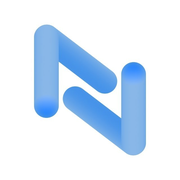
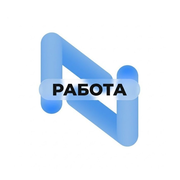
Приложение New.работа: новый логотип (значки 192/512/маскируемый, iPhone), название
Claude-Session: https://claude.ai/code/session_01TJtP8tz58uAKo28PQY2eJL

Changed region(s): [[0.1667, 0.1111, 0.8333, 0.8889], [0.5833, 0.5833, 0.6111, 0.6111], [0.3889, 0.3889, 0.4167, 0.4167]]

diff --git a/sw.js b/sw.js
@@ -1,6 +1,6 @@
 // New.работа как приложение: всегда свежее из сети; без сети — последняя сохранённая копия страницы (данные из базы не кешируются).
-const C = "nr-shell-1";
-const SHELL = ["karta.html", "style.css?v=13", "mascot.js", "common.js?v=3", "geo.js", "config.js?v=2", "vendor/supabase.js?v=1", "logo.png?v=2", "icon-512.png"];
+const C = "nr-shell-2";
+const SHELL = ["karta.html", "style.css?v=13", "mascot.js", "common.js?v=3", "geo.js", "config.js?v=2", "vendor/supabase.js?v=1", "logo.png?v=2", "app-icon-512.png"];
 self.addEventListener("install", e => { e.waitUntil(caches.open(C).then(c => c.addAll(SHELL)).catch(() => {})); self.skipWaiting(); });
 self.addEventListener("activate", e => { e.waitUntil(caches.keys().then(ks => Promise.all(ks.filter(k => k !== C).map(k => caches.delete(k))))); self.clients.claim(); });
 self.addEventListener("fetch", e => {

diff --git a/karta.html b/karta.html
@@ -13,6 +13,7 @@
 <link rel="manifest" href="manifest.webmanifest">
 <link rel="apple-touch-icon" href="apple-touch-icon.png">
 <meta name="apple-mobile-web-app-capable" content="yes">
+<meta name="apple-mobile-web-app-title" content="New.работа">
 <script src="https://telegram.org/js/telegram-web-app.js"></script>
 <link rel="stylesheet" href="https://unpkg.com/leaflet@1.9.4/dist/leaflet.css">
 <link rel="stylesheet" href="style.css?v=13">
